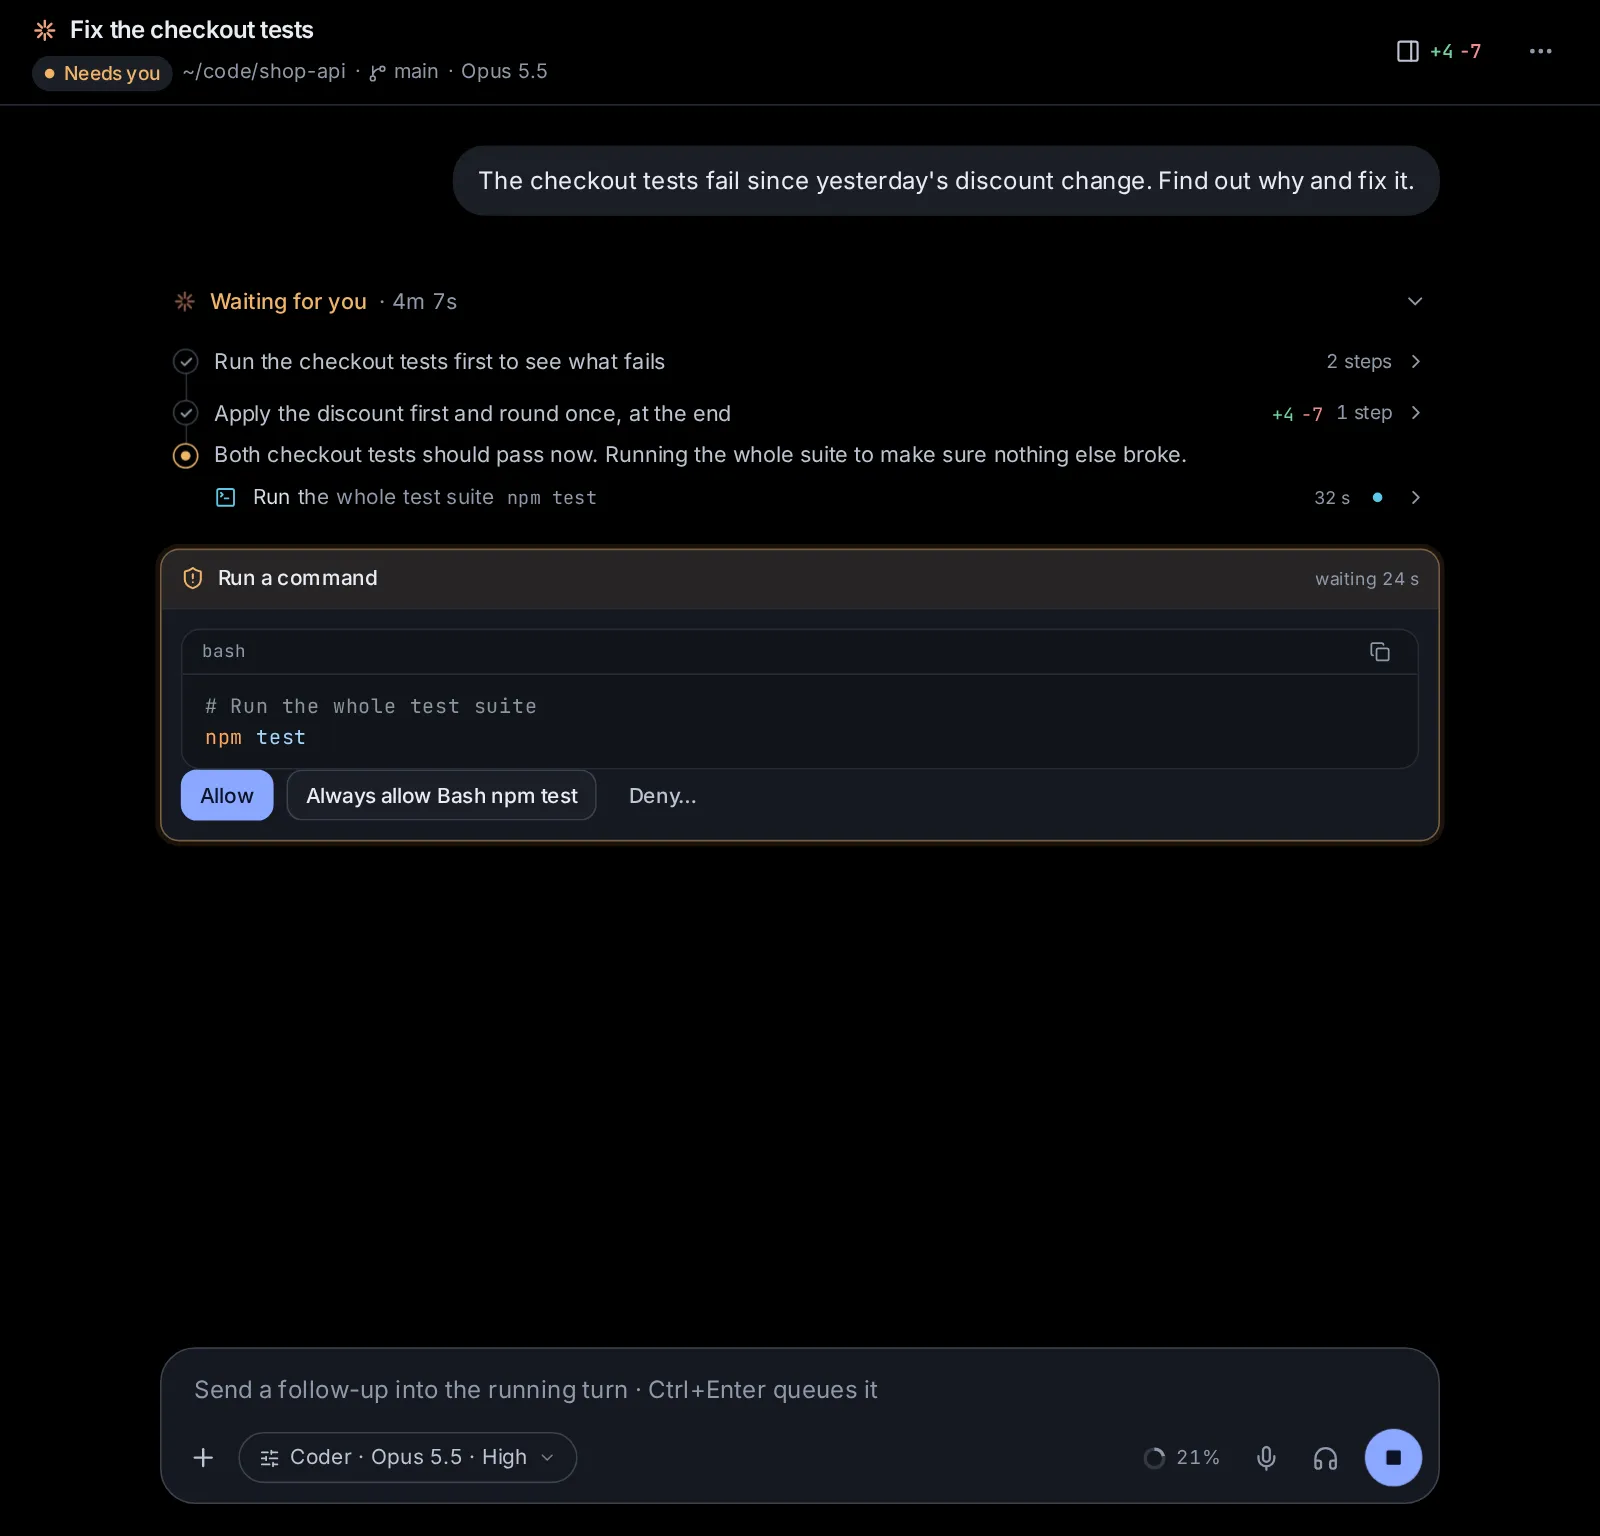
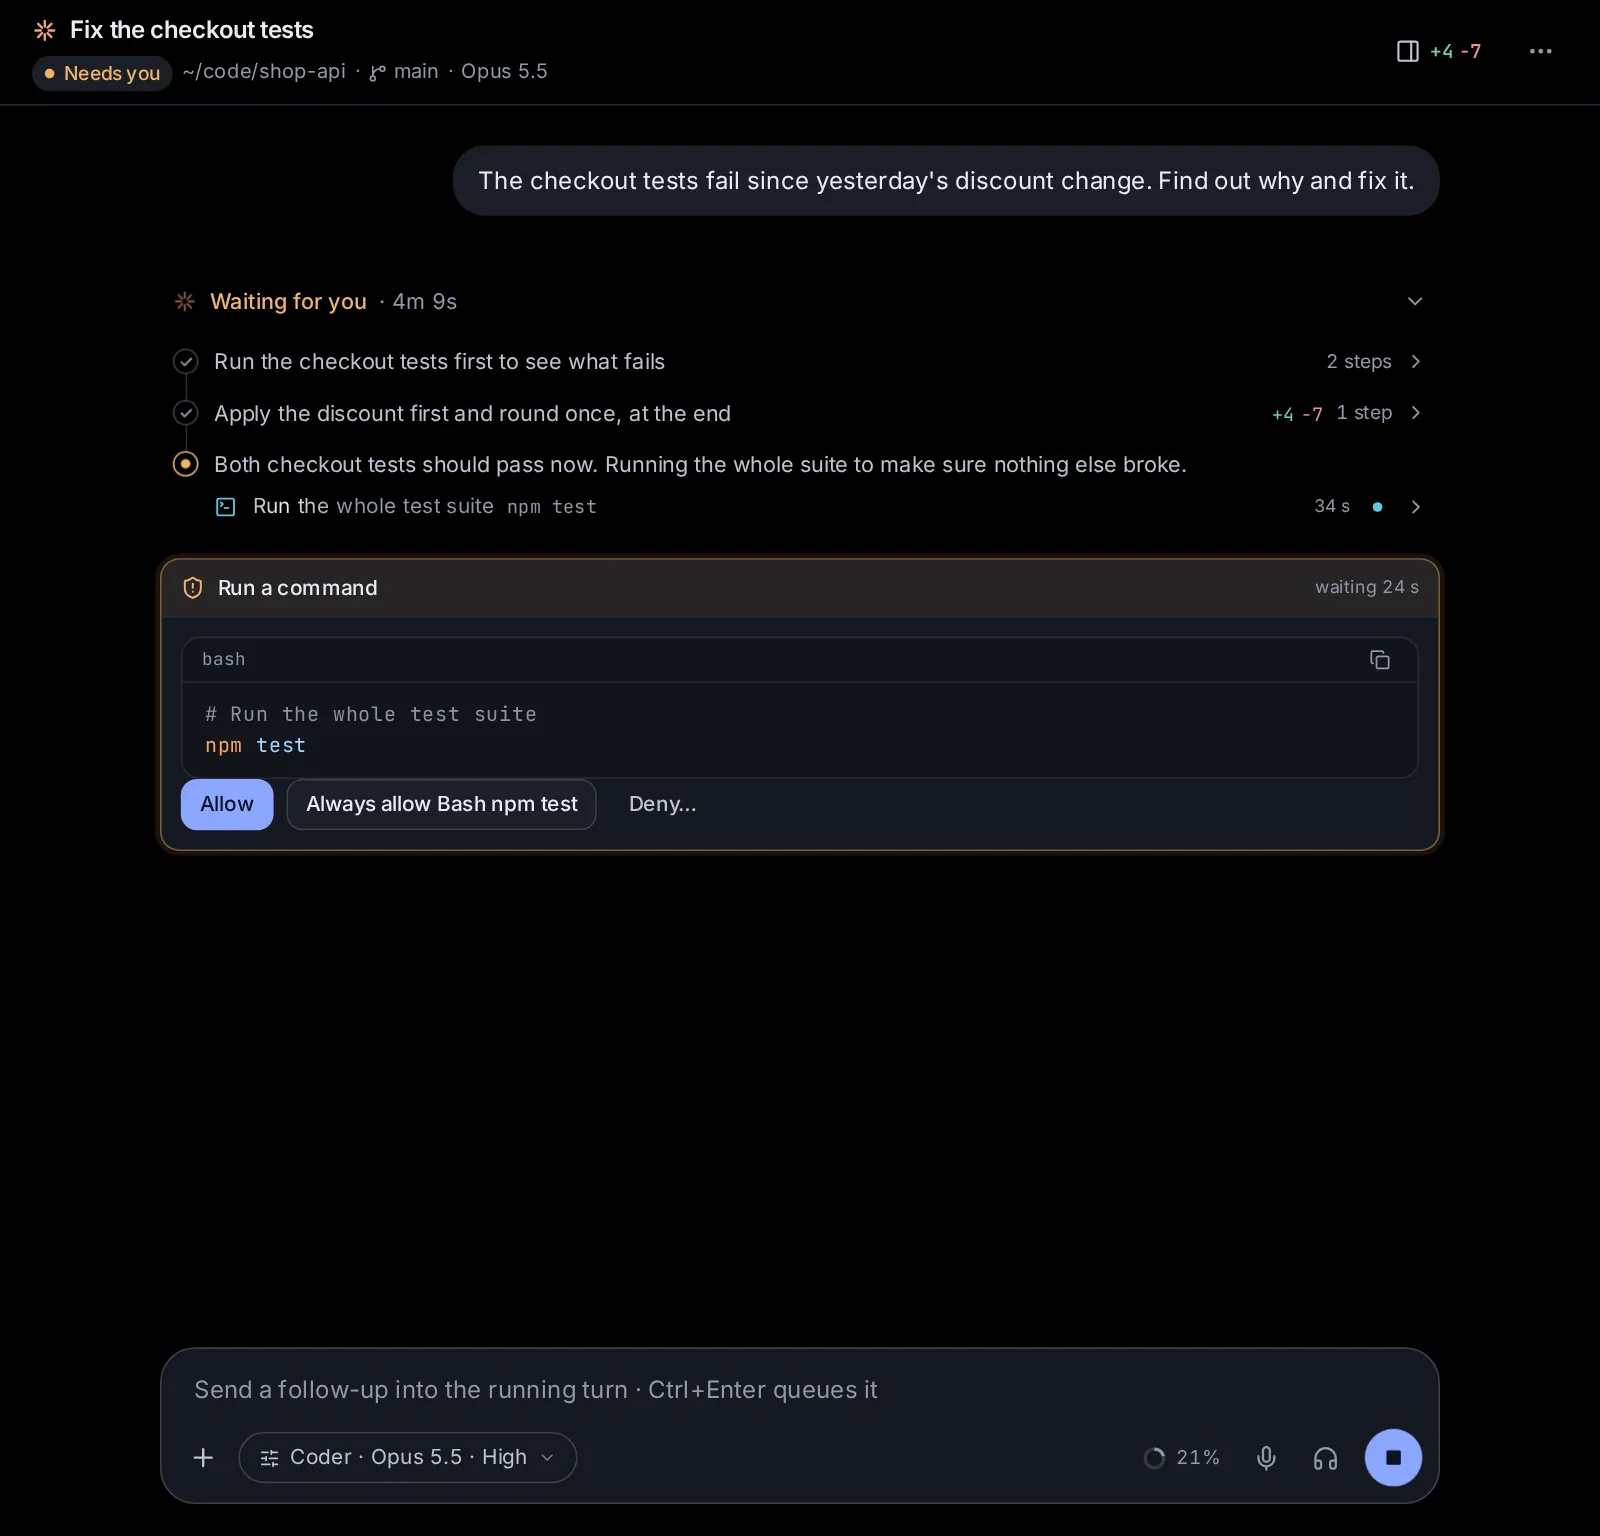
0.41.1: the part under way in the agent's outline sits as far below the part before it as the others do, its note lined up on its mark

Changed region(s): [[0.0938, 0.2812, 0.9062, 0.5625]]

diff --git a/web/src/features/session/Timeline.tsx b/web/src/features/session/Timeline.tsx
@@ -394,12 +394,14 @@ function NowPart({ part, state, open, onToggle, sessionKey, agent, live }: { par
   const busy = state === 'now';
   const Icon = stepsIcon(tools);
   const line = now || shown.length > 0 || (busy && !writing);
+  // Its mark sits 16px down, where a part's line has it, so the marks keep their spacing to the last; the note's first
+  // line (13.5px type at 1.55) is centred on it, as a part's words are.
   return (
     <div className="flex gap-2.5">
-      <span className={part.notes.length ? 'pt-[3px]' : 'pt-2'}>
+      <span className="pt-2">
         <Marker state={state} />
       </span>
-      <div className="min-w-0 flex-1">
+      <div className={cx('min-w-0 flex-1', part.notes.length > 0 && 'pt-[5.5px]')}>
         {part.notes.map((n) => (
           <AssistantBlock key={n.id} item={n} note quiet />
         ))}

diff --git a/CHANGELOG.md b/CHANGELOG.md
@@ -3,6 +3,13 @@
 What changed in each version of Hydor (called Naget Agent until 0.20), newest first. The app shows these in Settings → General →
 Release notes, and says what is new after it updates.
 
+## 0.41.1 · 7 November 2026
+
+The part the agent is working on keeps the outline's even spacing.
+
+- **The outline's last part**: the part under way, or waiting for you, sits as far below the part before it as every
+  other part does, with its note lined up on its mark; it sat a few pixels too close.
+
 ## 0.41.0 · 7 November 2026
 
 The agent's work reads as a short outline while it works, and a page being written shows that it is on its way.
